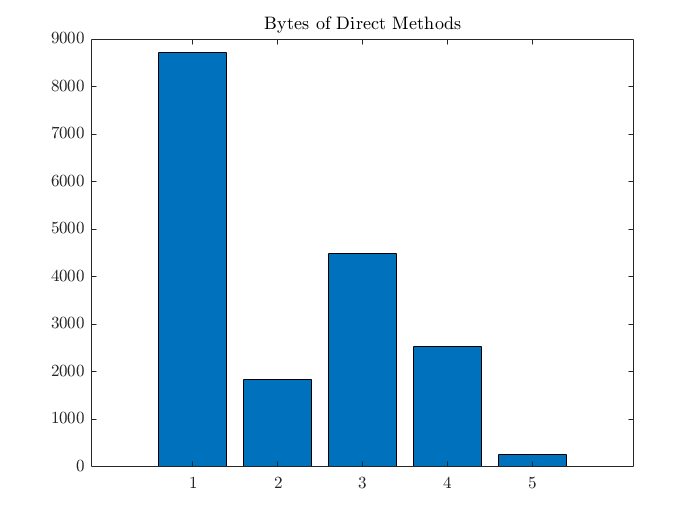
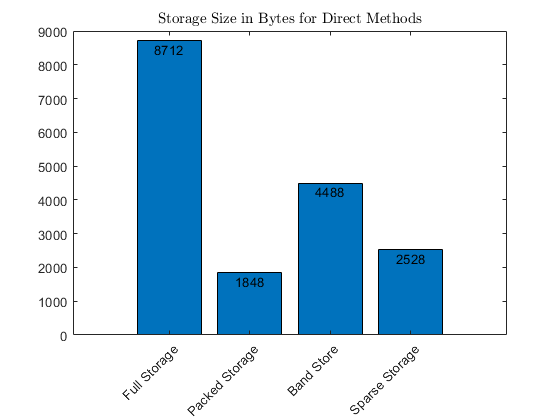
Adding more spy plots, updating functions
Labeling plots as well

diff --git a/MATLAB/case_study_code.m b/MATLAB/case_study_code.m
@@ -16,14 +16,29 @@ visualisation(temperatures, 'Full Storage Solution')
 [temperatures, packed_flops, ~, A_packed] =  packed_storage_solution(A);
 visualisation(temperatures, 'Packed Storage Solution')
 
-[temperatures, band_flops, ~, A_band, cholBand] = band_storage_solution(A);
+[temperatures, band_flops, ~, A_RCM, A_band, cholBand] = band_storage_solution(A);
 % Banded Storage (solved using Cholesky)
 visualisation(temperatures, 'Band Storage Solution')
+figure
 spy(A_band)
+title('A$_\mathrm{Band}$', 'Interpreter', 'latex')
+figure
+spy(cholBand)
+title('chol(A$_\mathrm{Band}$)', 'Interpreter', 'latex')
+figure
+spy(A_RCM)
+title('A$_\mathrm{RCM}$', 'Interpreter', 'latex')
 % Sparse Storage (solved using Cholesky)
-[temperatures, sparse_flops, ~, A_sparse] = sparse_storage_solution(A);
+%%
+[temperatures, sparse_flops, ~, A_sparse, sparseBand] = sparse_storage_solution(A);
 visualisation(temperatures, 'Sparse Storage Solution')
+figure
 spy(A_sparse)
+title('A$_\mathrm{Sparse}$', 'Interpreter', 'latex')
+figure
+spy(sparseBand)
+title('chol(A$_\mathrm{Sparse}$)', 'Interpreter', 'latex')
+%%
 % CSR Storage (solved using Jacobi)
 [temperatures, JacobiFlops, ~, jacobi_k, jacobi_res] = jacobi_solution(A);
 visualisation(temperatures, 'Jacobi Solution')
@@ -50,6 +65,7 @@ bar(Direct_Method_Bytes)
 title('Storage Size in Bytes for Direct Methods', 'Interpreter', 'latex')
 xtickangle(45)
 set(gca,'xticklabel',{'Full Storage', 'Packed Storage', 'Band Store', 'Sparse Storage'})
+text(1:length(Direct_Method_Bytes),Direct_Method_Bytes,num2str(Direct_Method_Bytes'),'vert','top','horiz','center');
 %%
 %Iterations
 NumberIterations = [jacobi_k, gs_k, conjugate_k, SOR_k];
@@ -58,6 +74,7 @@ bar(NumberIterations)
 title('Number of Iterations for Iterative Methods', 'Interpreter', 'latex')
 xtickangle(45)
 set(gca,'xticklabel',{'Jacobi', 'Gauss Seidel', 'Conjugate Gradiant', 'SOR'})
+text(1:length(NumberIterations),NumberIterations,num2str(NumberIterations'),'vert','top','horiz','center')
 %%
 %Average runtime
 runtimes = AverageRunTime;
@@ -75,7 +92,7 @@ xtickangle(45)
 set(gca,'xticklabel',{'Full Storage Flops', 'Packed Storage Flops',...
     'Band Storage Flops', 'Sparse Storage Flops', 'Jacobi Iteration Flops',...
     'Gauss Seidel Iteration Flops', 'Conjugate Gradient Iteration Flops', 'SOR Iteration Flops'})
-text(1:length(NumberFlops),NumberFlops,num2str(NumberFlops'),'vert','bottom','horiz','center'); 
+text(1:length(NumberFlops),NumberFlops,num2str(NumberFlops'),'vert','top','horiz','center'); 
 %%
 
 figure

diff --git a/MATLAB/sparse_storage_solution.m b/MATLAB/sparse_storage_solution.m
@@ -1,4 +1,4 @@
-function [temperatures, flops, time, A_sparse] = sparse_storage_solution(A)
+function [temperatures, flops, time, A_sparse, A_AMD_cholesky] = sparse_storage_solution(A)
 
     load full_storage;
     

diff --git a/MATLAB/band_storage_solution.m b/MATLAB/band_storage_solution.m
@@ -1,4 +1,4 @@
-function [temperatures, flops, time, A_band] = band_storage_solution(A)
+function [temperatures, flops, time, A_RCM, A_band, G_Band_then_chol] = band_storage_solution(A)
 
     load full_storage
 
